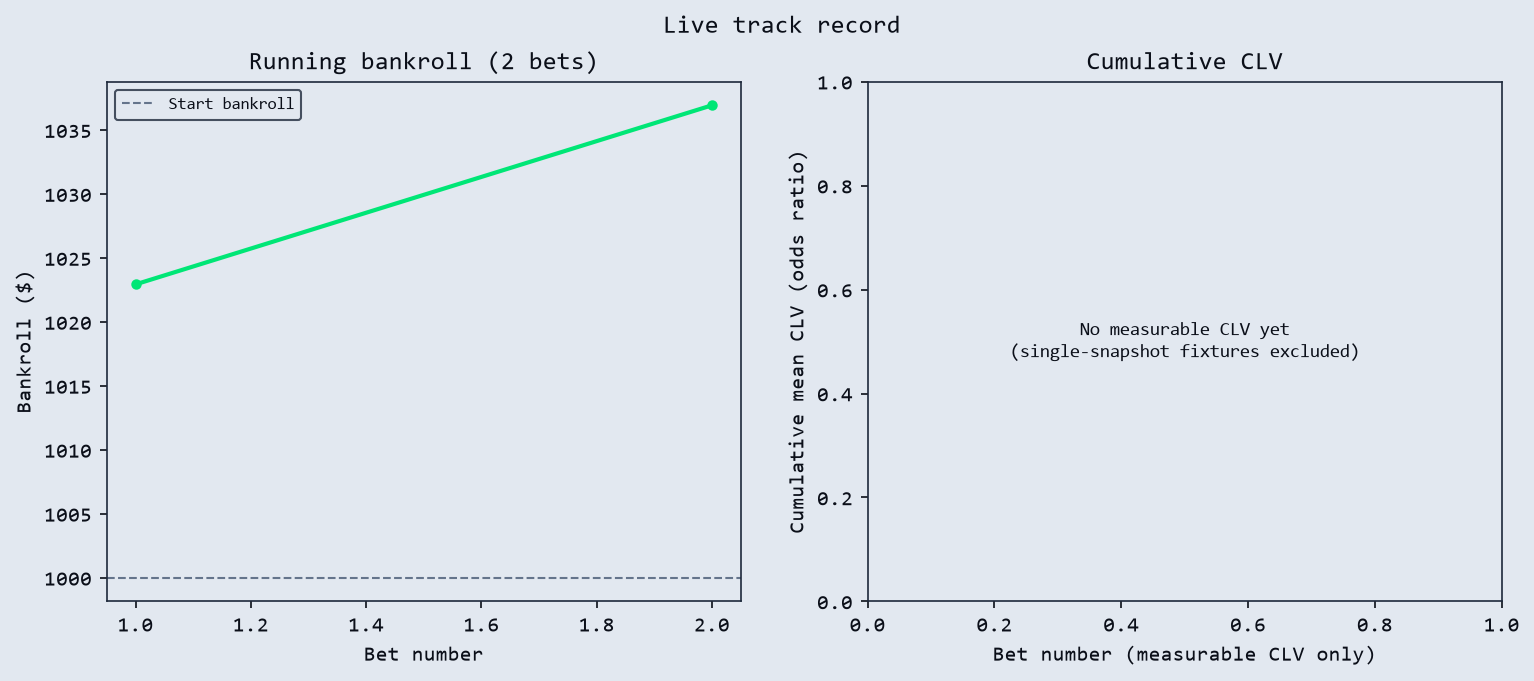
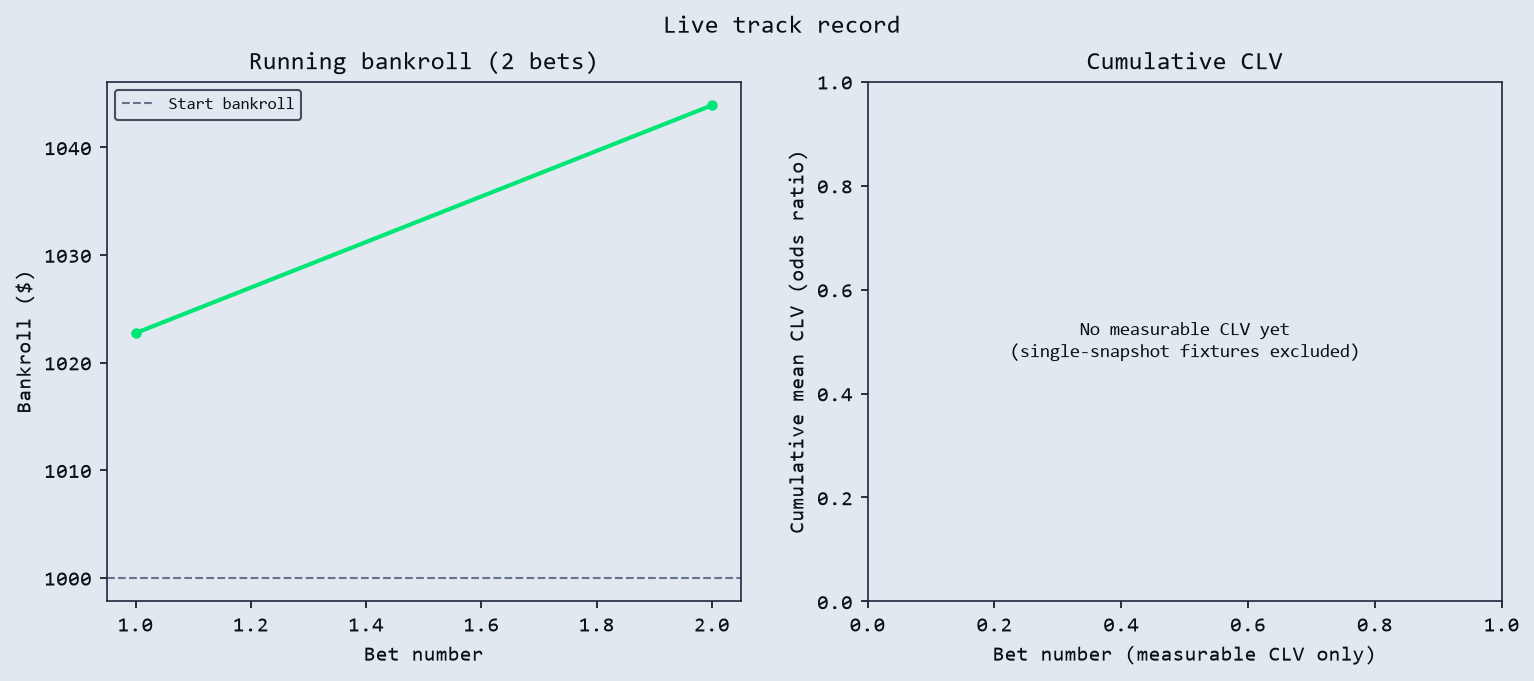
fixes

diff --git a/src/nlvswe/live/ledger.py b/src/nlvswe/live/ledger.py
@@ -294,6 +294,21 @@ def write_track_record_md(
 
     lines.extend(
         [
+            "## What this ledger records",
+            "",
+            "Only the **machine-generated** bet slips produced by `live.predict`, which is",
+            "what the automated strategy actually pre-registered. Discretionary bets a human",
+            "added by hand are deliberately excluded, so the track record measures the model",
+            "rather than the operator.",
+            "",
+            "This is why the NL vs SWE row set differs from `reports/BETS.md` and the P&L",
+            "figure in `reports/REPORT.md` ($36.94). That writeup settles the human bet",
+            "ticket: one Netherlands win at 1.74 for $31, plus a speculative over 2.5 for $20",
+            "that the model itself had flagged as a likely losing bet. The frozen machine slip",
+            "instead held two Netherlands win bets, at Pinnacle 1.74 and William Hill 1.73,",
+            "and no totals bet at all (totals markets were disabled in config). Both numbers",
+            "are correct for what they describe; neither restates the other.",
+            "",
             "## Artifacts",
             "",
             "- Ledger: `data/processed/live/ledger.parquet`",

diff --git a/reports/TRACK_RECORD.md b/reports/TRACK_RECORD.md
@@ -1,13 +1,13 @@
 # Live track record
 
-**Updated (UTC):** 2026-07-30T17:16:53.064773+00:00
+**Updated (UTC):** 2026-07-30T17:35:04.314404+00:00
 **Ledger rows:** 2
 
 ## Summary
 
 | Bets | Measurable CLV | Total staked | Total P&L | Bankroll |
 |---:|---:|---:|---:|---:|
-| 2 | 0 | $51.00 | $+36.94 | $1036.94 |
+| 2 | 0 | $59.73 | $+43.91 | $1043.91 |
 
 ### CLV
 
@@ -17,8 +17,23 @@ No measurable CLV yet. Single pre-kickoff snapshots are recorded with `measurabl
 
 | # | Match | Market | Selection | Stake | P&L | CLV | Measurable |
 |---:|---|---|---|---:|---:|---:|:---:|
-| 1 | `6fc2ebdea7fcb9d4` | 1x2 | home | $31.00 | $+22.94 | n/a | False |
-| 2 | `6fc2ebdea7fcb9d4` | totals | over_2.5 | $20.00 | $+14.00 | n/a | False |
+| 1 | `6fc2ebdea7fcb9d4` | 1x2 | home | $30.73 | $+22.74 | n/a | False |
+| 2 | `6fc2ebdea7fcb9d4` | 1x2 | home | $29.00 | $+21.17 | n/a | False |
+
+## What this ledger records
+
+Only the **machine-generated** bet slips produced by `live.predict`, which is
+what the automated strategy actually pre-registered. Discretionary bets a human
+added by hand are deliberately excluded, so the track record measures the model
+rather than the operator.
+
+This is why the NL vs SWE row set differs from `reports/BETS.md` and the P&L
+figure in `reports/REPORT.md` ($36.94). That writeup settles the human bet
+ticket: one Netherlands win at 1.74 for $31, plus a speculative over 2.5 for $20
+that the model itself had flagged as a likely losing bet. The frozen machine slip
+instead held two Netherlands win bets, at Pinnacle 1.74 and William Hill 1.73,
+and no totals bet at all (totals markets were disabled in config). Both numbers
+are correct for what they describe; neither restates the other.
 
 ## Artifacts
 
